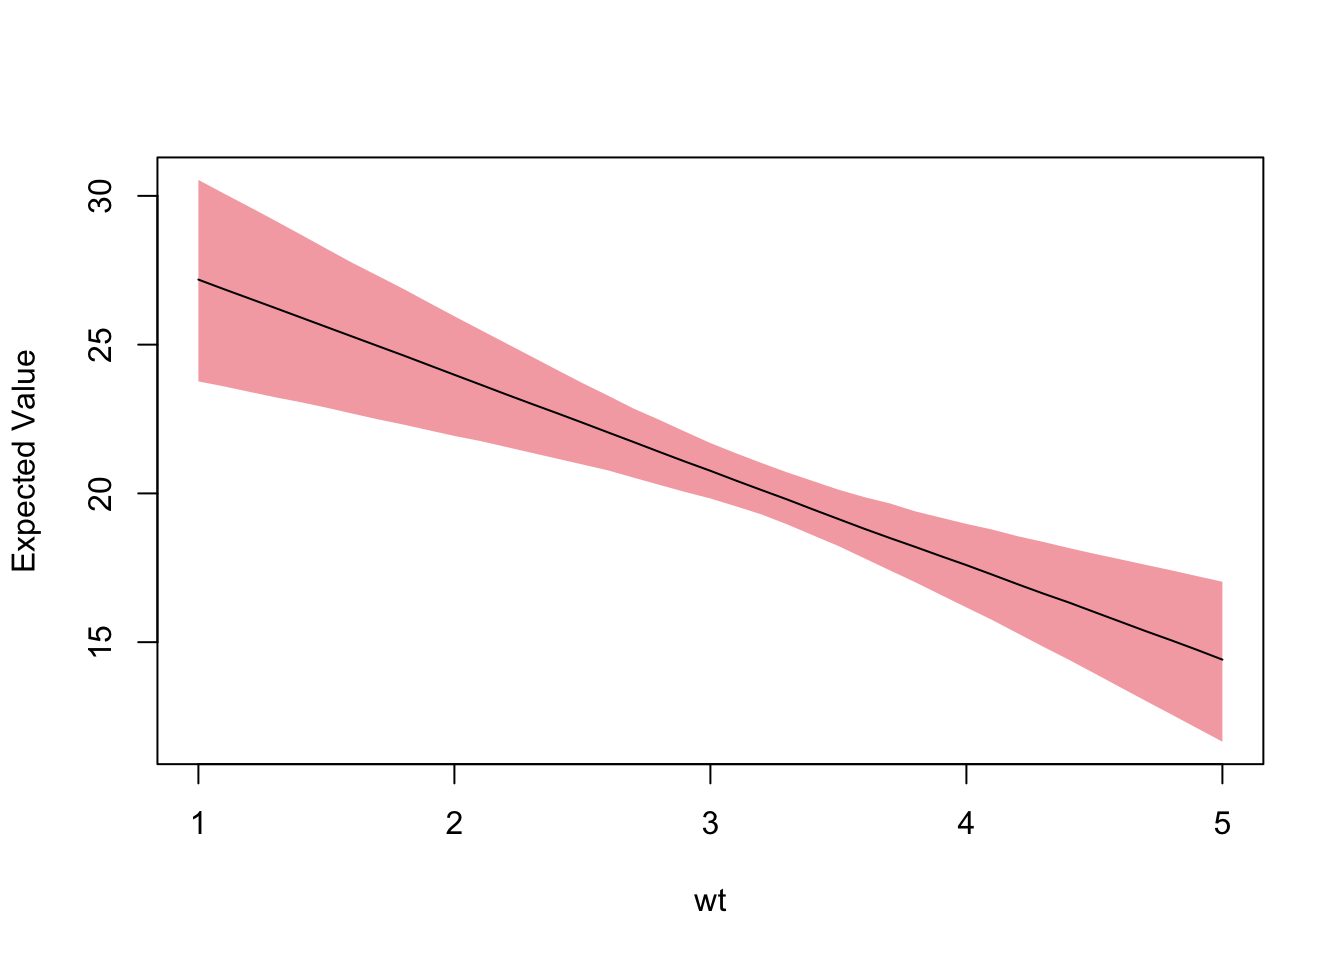
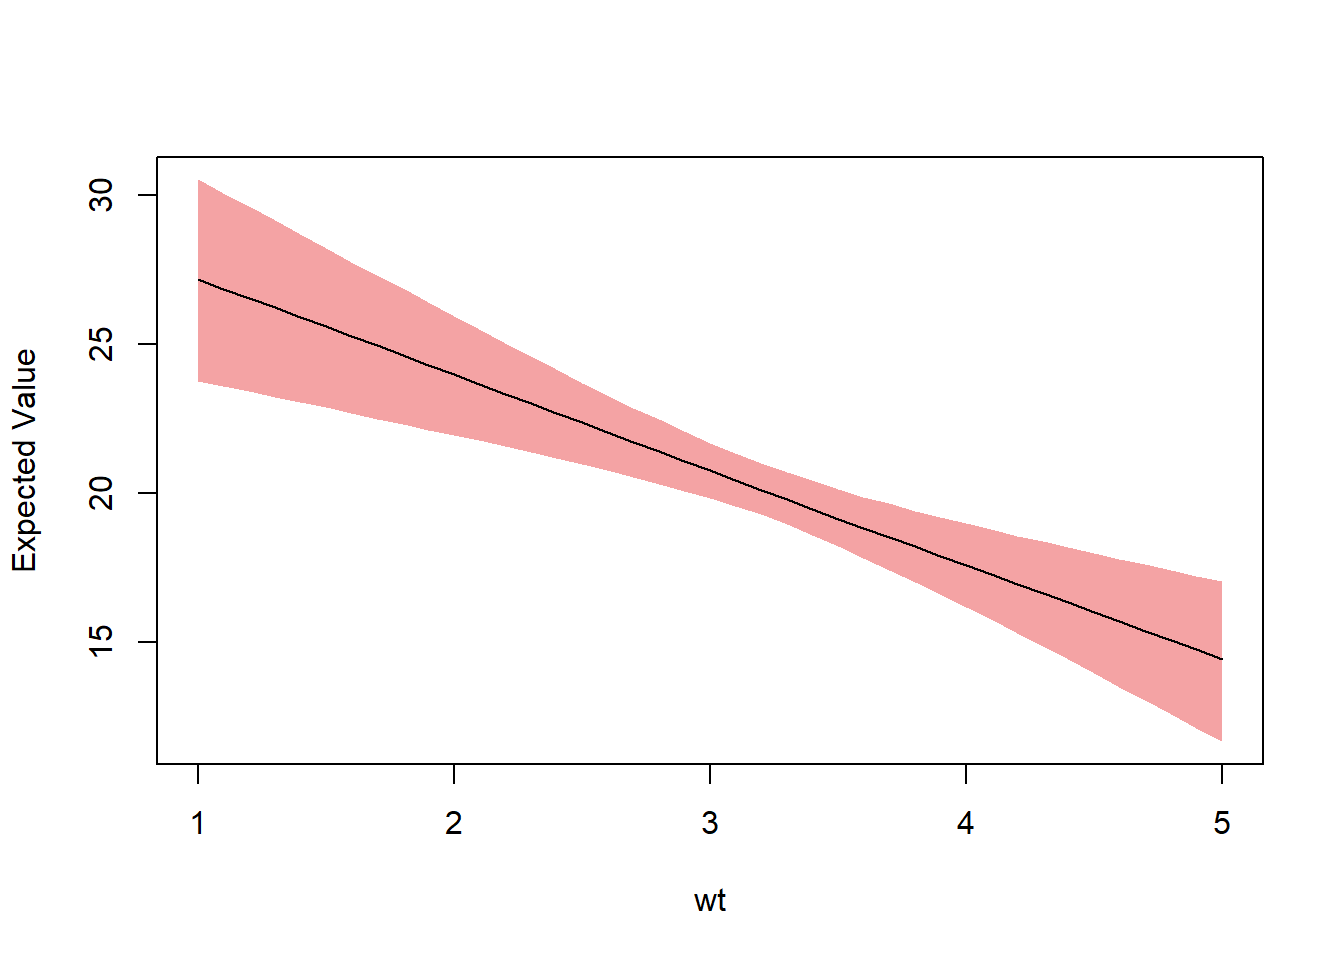
re-build docs and changed version in description

diff --git a/docs/articles/binary_models.html b/docs/articles/binary_models.html
@@ -87,7 +87,7 @@
 <div class="contents">
 <div class="sourceCode"><pre class="sourceCode r"><code class="sourceCode r"><span class="kw">library</span>(foreign)
 <span class="kw">library</span>(regsim)</code></pre></div>
-<div class="sourceCode"><pre class="sourceCode r"><code class="sourceCode r">bes &lt;-<span class="st"> </span><span class="kw"><a href="http://www.rdocumentation.org/packages/foreign/topics/read.dta">read.dta</a></span>(<span class="st">"http://uclspp.github.io/PUBLG100/data/bes.dta"</span>)
+<div class="sourceCode"><pre class="sourceCode r"><code class="sourceCode r">bes &lt;-<span class="st"> </span><span class="kw">read.dta</span>(<span class="st">"http://uclspp.github.io/PUBLG100/data/bes.dta"</span>)
 
 bes<span class="op">$</span>Gender &lt;-<span class="st"> </span><span class="kw">factor</span>(bes<span class="op">$</span>Gender, <span class="dt">levels =</span> <span class="kw">c</span>(<span class="dv">0</span>, <span class="dv">1</span>), <span class="dt">labels =</span> <span class="kw">c</span>(<span class="st">"Female"</span>, <span class="st">"Male"</span>))</code></pre></div>
 <div class="sourceCode"><pre class="sourceCode r"><code class="sourceCode r">model &lt;-<span class="st"> </span><span class="kw">glm</span>(Turnout <span class="op">~</span><span class="st"> </span>Income <span class="op">+</span><span class="st"> </span>polinfoindex <span class="op">+</span><span class="st"> </span>Influence <span class="op">+</span><span class="st"> </span>Gender <span class="op">+</span><span class="st"> </span>Age <span class="op">+</span><span class="st"> </span>
@@ -150,7 +150,7 @@ sim &lt;-<span class="st"> </span><span class="kw"><a href="../reference/regsim.
 ## in_uni       0          
 ## 
 ##         2.5%       50%     97.5%
-## p1 0.7930571 0.8193284 0.8449907
+## p1 0.7929766 0.8193257 0.8452601
 ## --------------------------------
 ## 
 ##              Profile 2  
@@ -167,13 +167,13 @@ sim &lt;-<span class="st"> </span><span class="kw"><a href="../reference/regsim.
 ## in_uni       0          
 ## 
 ##         2.5%       50%     97.5%
-## p2 0.7286079 0.7613495 0.7921563
+## p2 0.7299238 0.7614173 0.7923184
 ## --------------------------------
 ## 
 ## First Differences:
 ## 
 ##           2.5%         50%       97.5%
-## fd -0.08578415 -0.05678465 -0.03106922</code></pre>
+## fd -0.08558134 -0.05660184 -0.03071958</code></pre>
 <div class="sourceCode"><pre class="sourceCode r"><code class="sourceCode r">x &lt;-<span class="st"> </span><span class="kw">list</span>(<span class="dt">Gender =</span> <span class="kw">levels</span>(bes<span class="op">$</span>Gender), <span class="dt">Income =</span> <span class="dv">1</span><span class="op">:</span><span class="dv">13</span>)
 
 sim &lt;-<span class="st"> </span><span class="kw"><a href="../reference/regsim.html">regsim</a></span>(model, x)</code></pre></div>

diff --git a/docs/articles/interaction_terms.html b/docs/articles/interaction_terms.html
@@ -88,7 +88,7 @@
 <div class="sourceCode"><pre class="sourceCode r"><code class="sourceCode r"><span class="kw">library</span>(foreign)
 <span class="kw">library</span>(regsim)
 
-world_data &lt;-<span class="st"> </span><span class="kw"><a href="http://www.rdocumentation.org/packages/foreign/topics/read.dta">read.dta</a></span>(<span class="st">"http://uclspp.github.io/PUBLG100/data/QoG2012.dta"</span>)</code></pre></div>
+world_data &lt;-<span class="st"> </span><span class="kw">read.dta</span>(<span class="st">"http://uclspp.github.io/PUBLG100/data/QoG2012.dta"</span>)</code></pre></div>
 <div class="sourceCode"><pre class="sourceCode r"><code class="sourceCode r">model &lt;-<span class="st"> </span><span class="kw">lm</span>(undp_hdi <span class="op">~</span><span class="st"> </span>wbgi_cce <span class="op">+</span><span class="st"> </span>former_col <span class="op">+</span><span class="st"> </span>wbgi_cce<span class="op">:</span>former_col, <span class="dt">data =</span> world_data)
 <span class="kw">summary</span>(model)</code></pre></div>
 <pre><code>## 

diff --git a/docs/articles/index.html b/docs/articles/index.html
@@ -99,7 +99,7 @@
       </header>
 
       <div class="page-header">
-  <h1>Articles <small>version&nbsp;0.1.8</small></h1>
+  <h1>Articles <small>version&nbsp;0.1.9</small></h1>
 </div>
 
 <div class="row">

diff --git a/docs/reference/index.html b/docs/reference/index.html
@@ -103,7 +103,7 @@
     <div class="page-header">
       <h1>
         Reference
-        <small>version&nbsp;0.1.8</small>
+        <small>version&nbsp;0.1.9</small>
       </h1>
     </div>
 
